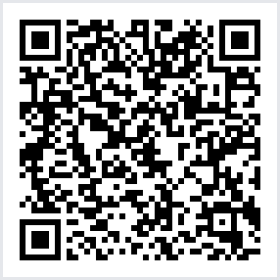
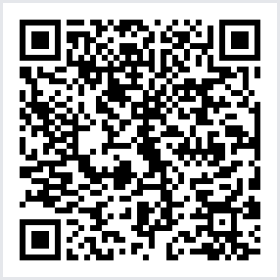
alterações no layout do pix, adicionando a chave pix de e-mail e removendo a chave pix de celular.

diff --git a/src/App.vue b/src/App.vue
@@ -1285,9 +1285,9 @@ const showPixToast = ref(false) // <-- Adicione esta linha
         <p class="mb-3 text-center">Apoie o projeto enviando qualquer valor via Pix!</p>
         <img src="/images/qrcode-pix.png" alt="QR Code Pix" class="w-48 h-48 object-contain mb-3 border rounded bg-white p-2" />
         <div class="mb-3 w-full">
-          <label class="block text-sm font-semibold mb-1 text-center">Chave Pix (celular):</label>
+          <label class="block text-sm font-semibold mb-1 text-center">Chave Pix (e-mail):</label>
           <div class="flex items-center justify-center gap-2">
-            <span class="bg-gray-800 px-2 py-1 rounded select-all text-sm" id="pix-key">(11) 98192-7567</span>
+            <span class="bg-gray-800 px-2 py-1 rounded select-all text-sm" id="pix-key">appnamanga@gmail.com</span>
             <button
               @click="copyPixKey"
               class="bg-blue-600 hover:bg-blue-700 text-white px-2 py-1 rounded text-xs font-bold transition"
